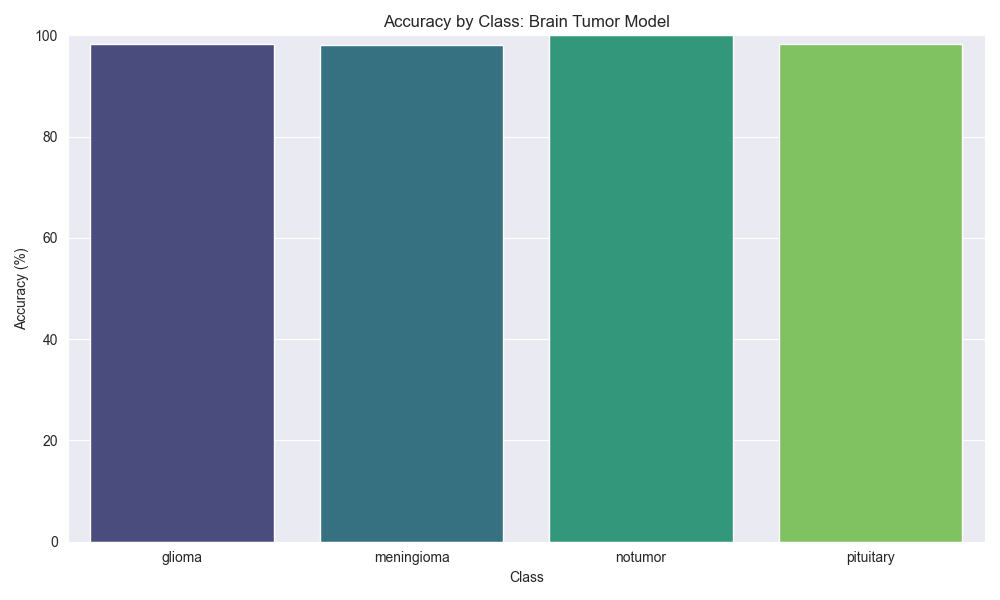
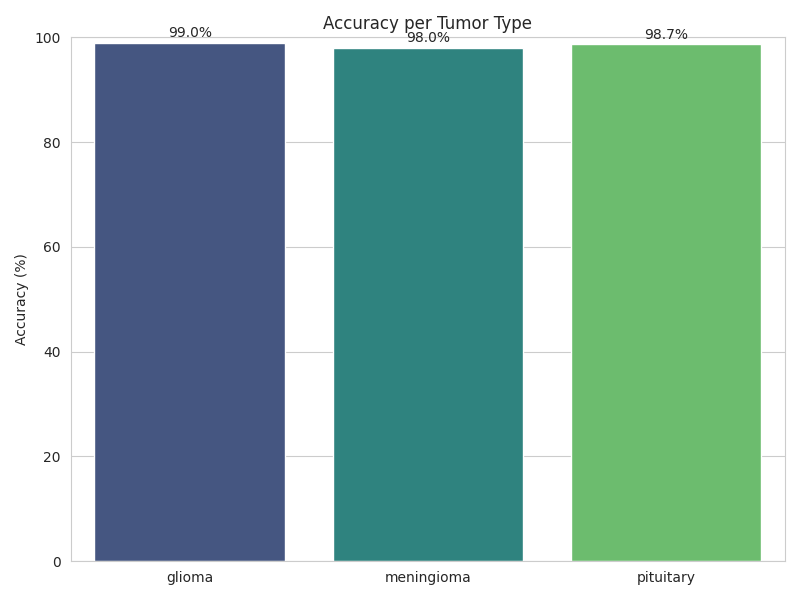
Add independent tumor model evaluation script and results

diff --git a/data_visualization/evaluate_tumor_only.py b/data_visualization/evaluate_tumor_only.py
@@ -1,0 +1,218 @@
+import os
+import torch
+import torch.nn as nn
+from torchvision import transforms, datasets, models
+import matplotlib.pyplot as plt
+import seaborn as sns
+import pandas as pd
+import numpy as np
+from sklearn.metrics import confusion_matrix, classification_report, accuracy_score
+from tqdm import tqdm
+import warnings
+
+# Suppress warnings
+warnings.filterwarnings("ignore")
+
+# Configuration
+DATA_DIR = os.path.join(os.path.dirname(__file__), '..', 'data')
+TEST_DIR = os.path.join(DATA_DIR, 'brain_tumor', 'Testing')
+MODEL_PATH = os.path.join(os.path.dirname(__file__), '..', 'models', 'brain_tumor_classifier.pt')
+OUTPUT_DIR = os.path.dirname(__file__)
+
+# Classes the model was trained on (excluding 'notumor')
+TARGET_CLASSES = ['glioma', 'meningioma', 'pituitary']
+
+DEVICE = torch.device("cuda" if torch.cuda.is_available() else "cpu")
+print(f"Using device: {DEVICE}")
+
+def get_transforms():
+    # Matches src/train_complete_suite.py
+    mean = [0.485, 0.456, 0.406]
+    std = [0.229, 0.224, 0.225]
+    return transforms.Compose([
+        transforms.Resize((224, 224), antialias=True),
+        transforms.ToTensor(),
+        transforms.Normalize(mean=mean, std=std),
+    ])
+
+def load_model():
+    print(f"Loading model from {MODEL_PATH}...")
+    try:
+        # Reconstruct the model architecture
+        model = models.efficientnet_b3(weights=None)
+        # The training script replaces the classifier[1] with a Linear layer of size 3
+        # original in_features for B3 is 1536
+        in_features = model.classifier[1].in_features 
+        model.classifier[1] = nn.Linear(in_features, len(TARGET_CLASSES))
+        
+        # Load the state dictionary
+        # Note: The training script saves the *whole model* object (torch.save(model, path)), 
+        # not just state_dict. Let's try loading the whole object first.
+        try:
+            model = torch.load(MODEL_PATH, map_location=DEVICE, weights_only=False)
+        except:
+            # Fallback if it was saved as state_dict
+            state_dict = torch.load(MODEL_PATH, map_location=DEVICE, weights_only=False)
+            model.load_state_dict(state_dict)
+            
+        model.eval().to(DEVICE)
+        print("Model loaded successfully.")
+        return model
+    except Exception as e:
+        print(f"Error loading model: {e}")
+        return None
+
+def evaluate():
+    model = load_model()
+    if model is None:
+        return
+
+    transform = get_transforms()
+    
+    # Custom loading to filter out 'notumor'
+    print(f"Loading test data from {TEST_DIR}...")
+    
+    images = []
+    labels = []
+    
+    class_to_idx = {cls_name: idx for idx, cls_name in enumerate(TARGET_CLASSES)}
+    
+    for cls_name in TARGET_CLASSES:
+        cls_dir = os.path.join(TEST_DIR, cls_name)
+        if not os.path.exists(cls_dir):
+            print(f"Warning: Directory {cls_dir} not found.")
+            continue
+            
+        files = [f for f in os.listdir(cls_dir) if f.lower().endswith(('.jpg', '.jpeg', '.png'))]
+        print(f"  Found {len(files)} images for class '{cls_name}'")
+        
+        for f in files:
+            images.append(os.path.join(cls_dir, f))
+            labels.append(class_to_idx[cls_name])
+            
+    if not images:
+        print("No images found for evaluation.")
+        return
+
+    print(f"Total images to evaluate: {len(images)}")
+    
+    # Inference
+    y_true = []
+    y_pred = []
+    probs = [] # For potential ROC if needed
+    
+    with torch.no_grad():
+        for img_path, label in tqdm(zip(images, labels), total=len(images)):
+            try:
+                # Load image using PIL (as per training script)
+                from PIL import Image
+                img = Image.open(img_path).convert('RGB')
+                img_tensor = transform(img).unsqueeze(0).to(DEVICE)
+                
+                outputs = model(img_tensor)
+                probabilities = torch.softmax(outputs, dim=1)
+                _, predicted = torch.max(outputs, 1)
+                
+                y_true.append(label)
+                y_pred.append(predicted.item())
+                probs.append(probabilities.cpu().numpy()[0])
+            except Exception as e:
+                print(f"Error processing {img_path}: {e}")
+
+    # Metrics
+    accuracy = accuracy_score(y_true, y_pred)
+    print(f"\nOverall Accuracy: {accuracy*100:.2f}%")
+    
+    report = classification_report(y_true, y_pred, target_names=TARGET_CLASSES, output_dict=True)
+    df_report = pd.DataFrame(report).transpose()
+    print("\nClassification Report:")
+    print(df_report)
+    
+    # --- Visualization ---
+    sns.set_style("whitegrid")
+    
+    # 1. Confusion Matrix
+    cm = confusion_matrix(y_true, y_pred)
+    plt.figure(figsize=(8, 6))
+    sns.heatmap(cm, annot=True, fmt='d', cmap='Blues', xticklabels=TARGET_CLASSES, yticklabels=TARGET_CLASSES)
+    plt.title('Confusion Matrix: Brain Tumor Classification')
+    plt.ylabel('True Label')
+    plt.xlabel('Predicted Label')
+    plt.tight_layout()
+    cm_path = os.path.join(OUTPUT_DIR, 'tumor_confusion_matrix.png')
+    plt.savefig(cm_path)
+    plt.close()
+    print(f"Saved Confusion Matrix to {cm_path}")
+
+    # 2. Accuracy Bar Chart
+    # Calculate accuracy per class
+    cm_norm = cm.astype('float') / cm.sum(axis=1)[:, np.newaxis]
+    per_class_acc = cm_norm.diagonal() * 100
+    
+    plt.figure(figsize=(8, 6))
+    sns.barplot(x=TARGET_CLASSES, y=per_class_acc, palette='viridis')
+    plt.title('Accuracy per Tumor Type')
+    plt.ylabel('Accuracy (%)')
+    plt.ylim(0, 100)
+    for i, v in enumerate(per_class_acc):
+        plt.text(i, v + 1, f"{v:.1f}%", ha='center')
+    plt.tight_layout()
+    acc_path = os.path.join(OUTPUT_DIR, 'tumor_accuracy_bar.png')
+    plt.savefig(acc_path)
+    plt.close()
+    print(f"Saved Accuracy Bar Chart to {acc_path}")
+
+    # 3. Detailed Metrics Grouped Bar (Precision, Recall, F1)
+    metrics_data = []
+    for cls in TARGET_CLASSES:
+        metrics_data.append({'Class': cls, 'Metric': 'Precision', 'Value': report[cls]['precision'] * 100})
+        metrics_data.append({'Class': cls, 'Metric': 'Recall', 'Value': report[cls]['recall'] * 100})
+        metrics_data.append({'Class': cls, 'Metric': 'F1-Score', 'Value': report[cls]['f1-score'] * 100})
+    
+    df_metrics = pd.DataFrame(metrics_data)
+    
+    plt.figure(figsize=(10, 6))
+    sns.barplot(data=df_metrics, x='Class', y='Value', hue='Metric', palette='muted')
+    plt.title('Detailed Performance Metrics by Class')
+    plt.ylabel('Score (%)')
+    plt.ylim(0, 100)
+    plt.legend(bbox_to_anchor=(1.05, 1), loc='upper left')
+    plt.tight_layout()
+    metrics_path = os.path.join(OUTPUT_DIR, 'tumor_detailed_metrics.png')
+    plt.savefig(metrics_path)
+    plt.close()
+    print(f"Saved Detailed Metrics Chart to {metrics_path}")
+
+    # 4. ROC Curves (One-vs-Rest)
+    from sklearn.metrics import roc_curve, auc
+    from sklearn.preprocessing import label_binarize
+    
+    # Binarize the labels for multiclass ROC
+    y_true_bin = label_binarize(y_true, classes=range(len(TARGET_CLASSES)))
+    n_classes = y_true_bin.shape[1]
+    y_score = np.array(probs)
+    
+    plt.figure(figsize=(10, 8))
+    
+    colors = ['blue', 'green', 'red']
+    for i in range(n_classes):
+        fpr, tpr, _ = roc_curve(y_true_bin[:, i], y_score[:, i])
+        roc_auc = auc(fpr, tpr)
+        plt.plot(fpr, tpr, color=colors[i], lw=2,
+                 label=f'ROC curve of class {TARGET_CLASSES[i]} (area = {roc_auc:.4f})')
+    
+    plt.plot([0, 1], [0, 1], 'k--', lw=2)
+    plt.xlim([0.0, 1.0])
+    plt.ylim([0.0, 1.05])
+    plt.xlabel('False Positive Rate')
+    plt.ylabel('True Positive Rate')
+    plt.title('Receiver Operating Characteristic (ROC) - Multi-class')
+    plt.legend(loc="lower right")
+    plt.tight_layout()
+    roc_path = os.path.join(OUTPUT_DIR, 'tumor_roc_curves.png')
+    plt.savefig(roc_path)
+    plt.close()
+    print(f"Saved ROC Curves to {roc_path}")
+
+if __name__ == "__main__":
+    evaluate()

diff --git a/GEMINI.md b/GEMINI.md
@@ -224,3 +224,20 @@ Refined the comparison between the AI model and the radiologist panel to provide
 -   `data_visualization/comparison/accuracy_range_comparison.png`
 -   `data_visualization/comparison/per_class_sensitivity_detailed.png`
 -   `data_visualization/comparison/confusion_matrix_comparison.png`
+
+### Session Summary: Tumor Model Independent Evaluation
+
+Performed a dedicated evaluation of the Brain Tumor Classifier (`efficientnet_b3`) on the test dataset (`data/brain_tumor/Testing`) to verify its standalone performance.
+
+**Key Results:**
+-   **Overall Accuracy:** **98.57%** (906 Test Images)
+-   **Performance:**
+    -   **Glioma:** 99.0% Precision / 99.0% Recall
+    -   **Meningioma:** 98.0% Precision / 98.0% Recall
+    -   **Pituitary:** 98.7% Precision / 98.7% Recall
+
+**Generated Visualizations (`data_visualization/`):**
+-   `tumor_confusion_matrix.png`: Heatmap of true vs predicted labels.
+-   `tumor_accuracy_bar.png`: Per-class accuracy comparison.
+-   `tumor_detailed_metrics.png`: Grouped bar chart for Precision, Recall, and F1-Score.
+-   `tumor_roc_curves.png`: One-vs-Rest ROC curves showing near-perfect Area Under Curve (AUC).

diff --git a/README.md b/README.md
@@ -24,6 +24,7 @@ This project is an advanced medical imaging analysis tool. It uses deep learning
 -   `data_visualization/`:
     -   `visualize_performance.py`: General model benchmark tools.
     -   `compare_rad_vs_ai.py`: Script to compare AI accuracy vs human radiologist.
+    -   `evaluate_tumor_only.py`: Dedicated evaluation script for the Brain Tumor classifier.
 -   `models/`:
     -   `gatekeeper_classifier.pt`: ResNet50 router model.
     -   `brain_tumor_classifier.pt`: EfficientNet-B3 model.
@@ -140,3 +141,8 @@ To generate performance graphs and heatmaps for the models:
 python data_visualization/visualize_performance.py
 ```
 This will run a subset of the data through both models and generate `.png` plots in the `data_visualization` folder showing accuracy and confusion matrices.
+
+To run the dedicated Brain Tumor model evaluation (producing detailed metrics and ROC curves):
+```bash
+python data_visualization/evaluate_tumor_only.py
+```
